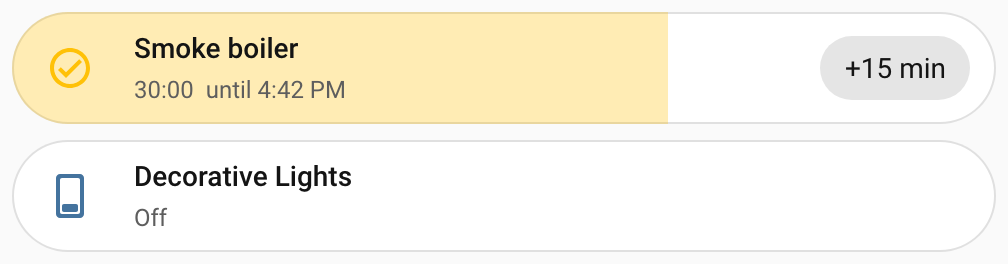
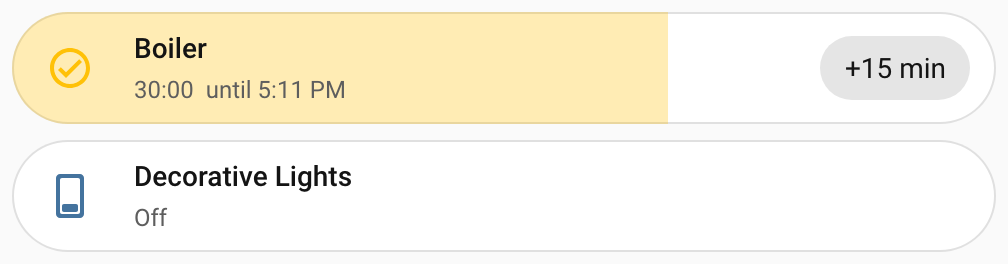
Fix the card documentation after review and name the E2E boiler
Rename the card's installation subsection so that the README's own
Installation anchor works again, and say exactly what the card does where the
text was broader than the code: which buttons are off for an unavailable
timer, when Stop is offered, that the round tile's state in words is for
screen readers, which editor words follow the last loaded language, and that
the first-load fix is in frontend 20261028.0 and later, which Home Assistant
2026.11 is expected to carry. The YAML example writes presets as the editor
does. RULINGS gains the focus ring, the why of the gate, and the correction
that only the pill's body carries the fill.

The end-to-end fixture renames the strict timer's target to Boiler in the
entity registry, as a user does, so that the pictures do not read Smoke
boiler; the pictures are retaken. The plan's Task 9 file list records the
files the task also touched.

Changed region(s): [[0.123, 0.1515, 0.3075, 0.2424], [0.246, 0.303, 0.3075, 0.3939]]

diff --git a/card/e2e/dialog.spec.ts b/card/e2e/dialog.spec.ts
@@ -2,10 +2,10 @@
 // a real Home Assistant, which has dialogs of its own: it opens as a modal above the whole
 // frontend, the page behind it takes no input, and Escape closes it. Everything else the
 // pop-up will do rests on this. View "dialog": one pill card on the strict timer.
+import { STRICT_NAME } from "./constants";
 import { expect, test } from "./fixtures";
 import { focusedPlace, hasFocus } from "./focus";
 
-const NAME = "Smoke boiler";
 /** What `transparent` computes to: the probe's answer when the theme has no primary colour. */
 const NO_COLOR = "rgba(0, 0, 0, 0)";
 
@@ -15,7 +15,7 @@ test.describe("the card's dialog in Home Assistant", () => {
   });
 
   test("the card is on the dashboard", async ({ page }) => {
-    await expect(page.locator("timerify-card").getByText(NAME)).toBeVisible();
+    await expect(page.locator("timerify-card").getByText(STRICT_NAME)).toBeVisible();
   });
 
   test("a tap opens a modal dialog above Home Assistant", async ({ page }) => {
@@ -23,7 +23,7 @@ test.describe("the card's dialog in Home Assistant", () => {
     const dialog = card.locator("dialog");
     await expect(dialog).toBeHidden();
 
-    await card.getByRole("button", { name: NAME }).click();
+    await card.getByRole("button", { name: STRICT_NAME }).click();
 
     await expect(dialog).toBeVisible();
     const isModal = (node: HTMLDialogElement) => node.open && node.matches(":modal");
@@ -41,7 +41,7 @@ test.describe("the card's dialog in Home Assistant", () => {
     // The sidebar can be clicked as long as the dialog is closed.
     await sidebar.click({ trial: true });
 
-    await card.getByRole("button", { name: NAME }).click();
+    await card.getByRole("button", { name: STRICT_NAME }).click();
     await expect(dialog).toBeVisible();
 
     for (let presses = 1; presses <= 6; presses++) {
@@ -56,7 +56,7 @@ test.describe("the card's dialog in Home Assistant", () => {
   test("Escape closes it and gives focus back to the card", async ({ page }) => {
     const card = page.locator("timerify-card");
     const dialog = card.locator("dialog");
-    const body = card.getByRole("button", { name: NAME });
+    const body = card.getByRole("button", { name: STRICT_NAME });
     await body.click();
     await expect(dialog).toBeVisible();
 
@@ -67,7 +67,7 @@ test.describe("the card's dialog in Home Assistant", () => {
   });
 
   test("a keyboard user sees where the focus is", async ({ page }) => {
-    const body = page.locator("timerify-card").getByRole("button", { name: NAME });
+    const body = page.locator("timerify-card").getByRole("button", { name: STRICT_NAME });
     // Tab through the page, as a keyboard user does, until it reaches the card.
     for (let presses = 1; !(await hasFocus(body)); presses++) {
       expect(presses, "presses of Tab before the card has the focus").toBeLessThanOrEqual(100);

diff --git a/card/e2e/pill.spec.ts b/card/e2e/pill.spec.ts
@@ -4,12 +4,12 @@
 // restarts.
 // View "pill": one pill card on the strict timer, with a chip of 15.
 import type { Locator } from "@playwright/test";
+import { STRICT_NAME } from "./constants";
 import { expect, test } from "./fixtures";
 import { runHarness } from "./harness";
 import { tapBorder } from "./press";
 import { hassWs } from "./ws";
 
-const NAME = "Smoke boiler";
 const CHIP_MINUTES = 15;
 const MINUTE = 60_000;
 /** The browser's time zone, which the user's profile follows by default (the config's). */
@@ -81,7 +81,7 @@ test.describe("the pill in Home Assistant", () => {
     // The name and the icon let a press through to the button under them, which is why
     // Playwright's own click on them is refused (it finds the button in the way): tap where
     // a finger or a mouse would, at the middle of each.
-    for (const part of [card.getByText(NAME, { exact: true }), card.locator(".icon")]) {
+    for (const part of [card.getByText(STRICT_NAME, { exact: true }), card.locator(".icon")]) {
       const box = await part.boundingBox();
       if (box === null) {
         throw new Error("The part of the pill should be on the page");

diff --git a/card/e2e/fixture.spec.ts b/card/e2e/fixture.spec.ts
@@ -1,6 +1,7 @@
 // The reset that every test starts with must undo whatever a test did to the fixture: a
 // test that finds a timer left running, a command missing, an interval off or a dashboard
 // edited cannot be trusted. The first test does all of that at once.
+import { STRICT_NAME } from "./constants";
 import { commandsOf, expect, resetFixture, test } from "./fixtures";
 import { hassWs } from "./ws";
 
@@ -60,5 +61,5 @@ test("a user who is not an administrator gets to the dashboard too", async ({
   }
 
   await openDashboard(page, "dialog", { user: "viewer" });
-  await expect(page.locator("timerify-card").getByText("Smoke boiler")).toBeVisible();
+  await expect(page.locator("timerify-card").getByText(STRICT_NAME)).toBeVisible();
 });

diff --git a/card/e2e/constants.ts b/card/e2e/constants.ts
@@ -4,6 +4,11 @@ import { fileURLToPath } from "node:url";
 /** `localhost`, not 127.0.0.1: the frontend's service worker registers only there or on https. */
 export const BASE_URL = "http://localhost:18124";
 export const REPO_ROOT = fileURLToPath(new URL("../..", import.meta.url));
+/**
+ * What the strict timer's target is called on the dashboard: `scripts.e2e.hass` gives it this
+ * name in the entity registry, as a user renames an entity (`STRICT_NAME` there says the same).
+ */
+export const STRICT_NAME = "Boiler";
 /** Written by `scripts.e2e.hass up`, read by the tests; the file goes with `down`. */
 export const STATE_FILE = fileURLToPath(new URL(".state.json", import.meta.url));
 

diff --git a/card/e2e/round.spec.ts b/card/e2e/round.spec.ts
@@ -2,10 +2,10 @@
 // timer with no duration, or stops it when it runs, without opening the pop-up. View "round":
 // the strict timer's round card, then the loose timer's.
 import type { Locator, Page } from "@playwright/test";
+import { STRICT_NAME } from "./constants";
 import { expect, test } from "./fixtures";
 import { hold, tap, tapBorder } from "./press";
 
-const STRICT_NAME = "Smoke boiler";
 /** The strict timer's default duration, which a bare run takes (Task 4's fixture). */
 const DEFAULT_MINUTES = "30";
 

diff --git a/scripts/e2e/hass.py b/scripts/e2e/hass.py
@@ -80,6 +80,11 @@ VIEWER = Account("viewer", "viewer-test-password")
 """A user who is not an administrator: a member of the group `system-users`."""
 
 
+STRICT_NAME = "Boiler"
+"""What the strict timer's target is called on the dashboard. The configuration of the
+harness, which the smoke test shares, names it for itself; the fixture renames it in the
+entity registry, as a user does. card/e2e/constants.ts says the same."""
+
 QUICK_CHIP_MINUTES = 15
 """The minutes of the chip on the pill of the strict timer."""
 
@@ -233,6 +238,9 @@ async def build_fixture(
         say("Adding the timers")
         access_token = await new_access_token(session, instance, admin_refresh)
         await socket.wait_for_state(SWITCH, has_state("off"), "off", CALL_TIMEOUT)
+        await socket.call(
+            "config/entity_registry/update", entity_id=SWITCH, name=STRICT_NAME
+        )
         strict = await add_timer(session, socket, instance, access_token, SWITCH)
         # The demo switch starts on; the loose timer starts with it off, as idle.
         await socket.wait_for_state(

diff --git a/RULINGS.md b/RULINGS.md
@@ -1321,12 +1321,14 @@ behaviour is written. Section numbers (§) and rules (R, S) are those of the spe
   on `keydown`) call the same handler, since a body that is not a native button gets no click
   from the keyboard. A cancelled or moved-off pointer aborts the press, the context menu is
   suppressed while a hold is pending, and `data-held` on the card, which makes the ring pulse,
-  says that letting go will act. The pill has no hold: with a mouse a long press there is a
-  tap, and on touch it does nothing. Cost if wrong: a user may expect a long press on the pill
-  to act; there is none for keyboard users either, who start and stop through the pop-up.
+  says that letting go will act. A visible focus ring (`:focus-visible`) shows keyboard users
+  where they are on the card. The pill has no hold: with a mouse a long press there is a tap,
+  and on touch it does nothing. Cost if wrong: a user may expect a long press on the pill to
+  act; there is none for keyboard users either, who start and stop through the pop-up.
 - **The body is an empty layer that covers the whole card, border included, under the content,
   as in Home Assistant's tile card; it carries `role="button"`, `tabindex="0"`,
-  `aria-labelledby` the name and the status text, and the fill.** The content row above it has
+  `aria-labelledby` the name and the status text, and, on the pill, the fill; the round tile's
+  ring is in the content and its body is empty.** The content row above it has
   `pointer-events: none`, so a press anywhere on the card reaches the body; the chip is a
   sibling of the body, not inside it, and has `pointer-events: auto`. A button inside an element
   with `role="button"` is presentational, so assistive technology would not see the chip; as a
@@ -1389,12 +1391,15 @@ behaviour is written. Section numbers (§) and rules (R, S) are those of the spe
   Cyrillic stays in `ru.json`. Custom integrations have no `strings.json`; `en.json` is the
   source. Cost if wrong: a language without a file shows English.
 - **The card's strings are typed by the keys of `en.json` `common`, and that English is built
-  into the bundle and used only before any card has loaded strings.** Config errors, the
-  picker's description and the editor's labels use `lastLoaded()`, the last `hass` whose
-  strings arrived, since `setConfig` and `getConfigForm` run without `hass`; everything else
-  uses the card's own `hass.localize`. A misspelt key fails `tsc`, a stale bundle fails
-  `build:check`, and a page whose first card is invalid shows that error in English. Cost if
-  wrong: the editor's words come from the last strings a card loaded (a follow-up).
+  into the bundle and used only before any card has loaded strings.** Config errors and the
+  picker's description use `lastLoaded()`, the last `hass` whose strings arrived, since
+  `setConfig` and `getConfigForm` run without `hass`; so do the editor's names of the two
+  layouts, the labels of its preset options and the text under them, because the form that Home
+  Assistant builds is given no way to translate those. The editor's field labels use the
+  frontend's own `localize`, and everything else the card's own `hass.localize`. A misspelt key
+  fails `tsc`, a stale bundle fails `build:check`, and a page whose first card is invalid shows
+  that error in English. Cost if wrong: the editor's option labels and helper come from the last
+  strings a card loaded, and are English when none has (a follow-up).
 
 ### The editor and the picker
 
@@ -1468,7 +1473,11 @@ behaviour is written. Section numbers (§) and rules (R, S) are those of the spe
   it.
 - **The gate from this phase on is the Python four (`pytest`, `ruff check`, `ruff format
   --check`, `mypy`), `npm --prefix card ci`, `build:check`, `typecheck`, `test` and `e2e`, and
-  hassfest, run locally on the final tree.** Cost if wrong: a longer gate, which needs Docker.
+  hassfest, run locally on the final tree.** GitHub Actions stay disabled and a green CI is
+  never a merge gate, so the gate is what runs on the machine; and each check proves what the
+  others cannot: `build:check` that the committed bundle is the sources', `tsc` the types, the
+  unit tests the logic, and the end-to-end tests and hassfest what only a real Home Assistant
+  shows. Cost if wrong: a longer gate, which needs Docker.
 - **The smoke test checks the delivery of the card first, before any countdown.** The index
   page `/` must contain `import("/timerify_frontend/timerify-card.js?v=<16 hex digits of the
   SHA-256 of the bundle in the checkout>")`, a GET of that address must return the bytes of
@@ -1486,9 +1495,10 @@ behaviour is written. Section numbers (§) and rules (R, S) are those of the spe
   scoped custom element registry, and then loses its definition: the dashboard shows "Custom
   element doesn't exist: timerify-card" until the page is loaded again
   ([home-assistant/frontend#53890](https://github.com/home-assistant/frontend/issues/53890),
-  fixed by frontend PR #54444 in frontend 20261028, Home Assistant 2026.11.0). Every card that an
-  integration loads this way meets it, and Lovelace resources do not. No fix on 2026.10 uses only
-  the public APIs. The README tells users to refresh once more, and
+  fixed by frontend PR #54444, in frontend 20261028.0 and later, which Home Assistant 2026.11 is
+  expected to carry; the unchanged bundle was seen to keep its definition on a 2026.11 beta).
+  Every card that an integration loads this way meets it, and Lovelace resources do not. No
+  fix on 2026.10 uses only the public APIs. The README tells users to refresh once more, and
   `card/e2e/first-load.spec.ts` records the behaviour as an expected failure that Playwright
   reports when the problem goes away. That expected failure rests on a race the card's module
   wins against the application's bundle on the machine it was written on, so a machine on which

diff --git a/README.md b/README.md
@@ -765,7 +765,7 @@ glance, and a tap opens a pop-up where you run the timer for a set time, add or 
 minutes, stop it, switch the intervals of its schedule and cancel pending commands. It has two
 layouts and a visual editor.
 
-### Installation
+### Loading the card
 
 There is nothing to add. Timerify serves the card and tells Home Assistant to load it on every
 dashboard, so there is no resource to create under **Dashboards**, and dashboards in YAML mode
@@ -778,8 +778,9 @@ first load after the frontend was updated), a card that an integration loads can
 the dashboard shows "Configuration error" and "Custom element doesn't exist: timerify-card".
 Refresh the page once more and the card is there. This is a fault of Home Assistant's frontend
 ([home-assistant/frontend#53890](https://github.com/home-assistant/frontend/issues/53890)) that
-every such card meets, and the frontend that Home Assistant 2026.11 ships fixes it. Timerify does
-not work around it.
+every such card meets. It is fixed in the frontend from version 20261028.0 on
+([pull request #54444](https://github.com/home-assistant/frontend/pull/54444)), which Home
+Assistant 2026.11 is expected to carry. Timerify does not work around it.
 
 ### The two layouts
 
@@ -801,11 +802,13 @@ below. The round tile has no chip, and it can be long-pressed; see
 - The name and the icon are the target's. The icon follows the target's state, as it does on any
   card. Both can be set in the card's configuration.
 - A countdown that runs on without an end (loose mode, a target that is on with no countdown)
-  shows a full fill and a full ring, with the state of the target in words. An idle timer shows
-  an empty fill and an empty ring.
+  shows a full fill and a full ring; the pill says the state of the target in words, and the
+  round tile has them for screen readers only. An idle timer shows an empty fill and an empty
+  ring.
 - A countdown that began before Timerify was updated to 0.5.0 has no recorded beginning: its
   fill stays full until the countdown ends or is set again.
-- A timer whose number is unavailable shows that, and the pop-up's buttons are off. If the
+- A timer whose number is unavailable shows that, and its presets, plus, minus, Stop and
+  cancel buttons are off (see [The pop-up](#the-pop-up)). If the
   entity of the card does not exist, or is not the "Run for" number of a Timerify timer, the card
   says so and names it, and finds its timer again by itself when the entity is back. After you
   rename the number, point the card at its new entity id.
@@ -823,12 +826,12 @@ Every option is shown here with its default:
 
 ```yaml
 type: custom:timerify-card
-entity: number.boiler_run_for   # required: the "Run for" number of the timer
-layout: pill                    # pill (the default) or round
-name: Boiler                    # default: the name of the target
-icon: mdi:water-boiler          # default: the icon of the target, which follows its state
-presets: [15, 30, 45, 60, 120]  # the default: minutes the pop-up offers
-chip: 15                        # no chip by default: the pill's "+15 min" chip
+entity: number.boiler_run_for             # required: the "Run for" number of the timer
+layout: pill                              # pill (the default) or round
+name: Boiler                              # default: the name of the target
+icon: mdi:water-boiler                    # default: the icon of the target, which follows its state
+presets: ["15", "30", "45", "60", "120"]  # the default: the minutes the pop-up offers
+chip: 15                                  # no chip by default: the pill's "+15 min" chip
 ```
 
 | Option | Default | What it is |
@@ -857,8 +860,9 @@ presets, so you see them. A few things about the editor:
   not a list) sends the editor to YAML.
 - A card written by hand without `layout` is a pill, but the form does not preselect it:
   Home Assistant's editor does not apply the defaults of a form.
-- The words of the editor are in the language of the last card the page loaded, and in English
-  before any card has.
+- The names of the fields are translated by Home Assistant itself. The names of the two layouts,
+  the labels of the preset options and the text under them are in the language of the last card
+  the page loaded, and in English before any card has.
 
 ### The pop-up
 
@@ -871,8 +875,9 @@ the dimmed page behind it close it. From top to bottom it holds:
 - **The presets**: pressing one runs the timer for that long, as setting "Run for" does, and
   restarts a countdown that runs.
 - **Take off 5 minutes, add 5 minutes, and Stop.** Taking time off is offered while a countdown
-  runs. Adding time to a timer that is idle starts it, as `timerify.add_time` does. Stop turns
-  the target off and ends the countdown, with or without one.
+  runs. Adding time to a timer that is idle starts it, as `timerify.add_time` does. Stop is offered
+  while the timer runs, with a countdown or without; it turns the target off and ends the
+  countdown.
 - **Schedule**, when the timer has intervals: a switch for each, named by its title, which
   turns the interval's [switch](#the-switch-of-an-interval) on and off. Creating and editing
   intervals is not done here; use the timer's page. An interval whose switch is unavailable is

diff --git a/docs/superpowers/plans/2026-10-30-phase-5-card.md b/docs/superpowers/plans/2026-10-30-phase-5-card.md
@@ -322,7 +322,7 @@ it("renders nothing while closed")                   // closed pop-up, ten new h
 - [ ] **Step 3: Write the E2E driver, the Playwright setup and the failing proof** (`card/e2e/dialog.spec.ts`, view `dialog`: one pill card on the strict timer)
 
 ```ts
-test("the card is on the dashboard")             // timerify-card shows "Smoke boiler"
+test("the card is on the dashboard")             // timerify-card shows "Boiler" (the fixture names the strict timer's target so, in the entity registry)
 test("a tap opens a modal dialog above Home Assistant")  // dialog.open && dialog.matches(":modal"); clicking its Close button
     // passes Playwright's hit-target check (nothing of the frontend covers it)
 test("the page behind the dialog takes no input")  // after open, 6 × Tab → the deep active element is never an element of the
@@ -566,7 +566,7 @@ test("shows a bad YAML config as an error")          // code editor: presets: [0
 ### Task 9: Documentation, version 0.5.0, the smoke test and the full gate
 
 **Files:**
-- Modify: `README.md`, `RULINGS.md`, `docs/followups.md`, `CLAUDE.md`, `custom_components/timerify/manifest.json` and `pyproject.toml` (`version` `0.5.0`), `uv.lock`, `scripts/smoke/run.py`
+- Modify: `README.md`, `RULINGS.md`, `docs/followups.md`, `CLAUDE.md`, `custom_components/timerify/manifest.json` and `pyproject.toml` (`version` `0.5.0`), `uv.lock`, `scripts/smoke/run.py`, `scripts/harness/hass.py` (`request_bytes`, which the card scenario needs for the index page and the bundle, and `request_json` is built on), `scripts/e2e/hass.py` and `card/e2e/{constants,dialog,fixture,pill,round}.spec.ts` (the strict timer's target is named "Boiler" in the entity registry, so the pictures do not read "Smoke boiler"), `card/e2e/screenshots.spec.ts` (a margin of 6 pixels, which leaves out the toolbar of Home Assistant)
 - Create: `docs/screenshots/card-pill.png`, `docs/screenshots/card-round.png` (by `npm --prefix card run screenshots`)
 
 - [ ] **Step 1: README** — section "Dashboard card" (anchor `dashboard-card`): it is loaded on every dashboard by Timerify itself (no resource to add; refresh the browser once after installing or updating); the two layouts with the screenshots; a YAML example (`type: custom:timerify-card`, `entity: number.<x>_run_for`, `layout`, `name`, `icon`, `presets`, `chip`); the pop-up; the long press of the round layout (strict: the default duration; loose: on without a countdown; a running timer is stopped; on the pill a long touch does nothing); the settings link for administrators; everything the card does is a service or an entity (list them); languages; the countdown uses the browser's clock against the server's end time. Contributors: `card/`, Node 26, `npm --prefix card ci`, `npm --prefix card exec playwright install chromium`, the npm commands, that the bundle is committed and `build:check` guards it, the E2E (Docker, port 18124) and screenshots. Update "What is not here yet" and "Verification"; the smoke command is `uv run python -m scripts.smoke.run`.
@@ -624,7 +624,7 @@ Decision — why — cost if wrong. C1–C12 are followed as written, with C3 an
 | T3 → T7 | `timerify-card-popup` (`view`, `opened`, filter) | T3's shell (dialog, title, close, Escape, backdrop, render only while open) stays; T7 adds sections inside it | yes |
 | T3 → T8 | `lastLoaded()` | made in T3 for config errors; T8 uses it for labels and the helper | yes |
 | T4 → T5–T8 | `scripts/e2e/hass.py` views, `resetFixture`, the fixture command and interval, timeouts | each task adds its own view; the reset restores the whole fixture; a test that needs more time raises its own timeout | yes |
-| T4 → T9 | `scripts/harness/hass.py`, `scripts/smoke/run.py` | T9 adds `scenario_card` using the harness's `request_json` | yes |
+| T4 → T9 | `scripts/harness/hass.py`, `scripts/smoke/run.py` | T9 adds `scenario_card` using the harness's `request_bytes` (new; the index page and the bundle are not JSON), and `request_json` is built on it | yes |
 | T5 → T7 | `format.ts`, `actions.ts` | T7 adds `settingText`, `setIntervalEnabled`, `cancelCommand`, `STEP_MINUTES`; no signature changes | yes |
 | T5 → T8 | `formatMinutes` | T8 labels preset options and the helper with it | yes |
 | T3 → T9 | `manifest.json` | T3 sets the dependencies; T9 edits only `version` | yes |

diff --git a/docs/followups.md b/docs/followups.md
@@ -24,14 +24,14 @@ Decisions that were made on purpose are in `RULINGS.md`, not here.
   starts the app and the modules added with `add_extra_js_url` as independent `import()` calls,
   and a module that defines its element before the app installs its scoped custom element
   registry loses the definition (home-assistant/frontend#53890, fixed by frontend PR #54444 in
-  frontend 20261028, Home Assistant 2026.11.0). Every card added with `add_extra_js_url` is hit;
-  Lovelace resources are not. On 2026.10 no fix uses only public APIs, so the owner ruled to
-  document it, keep C1 and change no card code; plan ruling 19 (the README tells users to
-  refresh the browser once after installing or updating) covers it. The question for 1.0.0 is
-  whether to raise the minimum Home Assistant to 2026.11, which makes the problem go away:
-  `hacs.json` `homeassistant`, the `pytest-homeassistant-custom-component` pin in
-  `pyproject.toml` (`:16`) and the image in `scripts/harness/compose.yaml` (`:8`) move
-  together. When the harness runs 2026.11,
+  frontend 20261028.0 and later, which Home Assistant 2026.11 is expected to carry). Every card
+  added with `add_extra_js_url` is hit; Lovelace resources are not. On 2026.10 no fix uses only
+  public APIs, so the owner ruled to document it, keep C1 and change no card code; plan ruling
+  19 (the README tells users to refresh the browser once after installing or updating) covers
+  it. The question for 1.0.0 is whether to raise the minimum Home Assistant to 2026.11, which
+  makes the problem go away: `hacs.json` `homeassistant`, the
+  `pytest-homeassistant-custom-component` pin in `pyproject.toml` (`:16`) and the image in
+  `scripts/harness/compose.yaml` (`:8`) move together. When the harness runs 2026.11,
   `card/e2e/first-load.spec.ts` passes unexpectedly: remove its `test.fail` (`:29`) and the
   reload after `primeServiceWorker` in `card/e2e/fixtures.ts` (`:157`). The expected failure
   rests on a race the card's module wins against the app's bundle (8 of 8 runs here): on a
